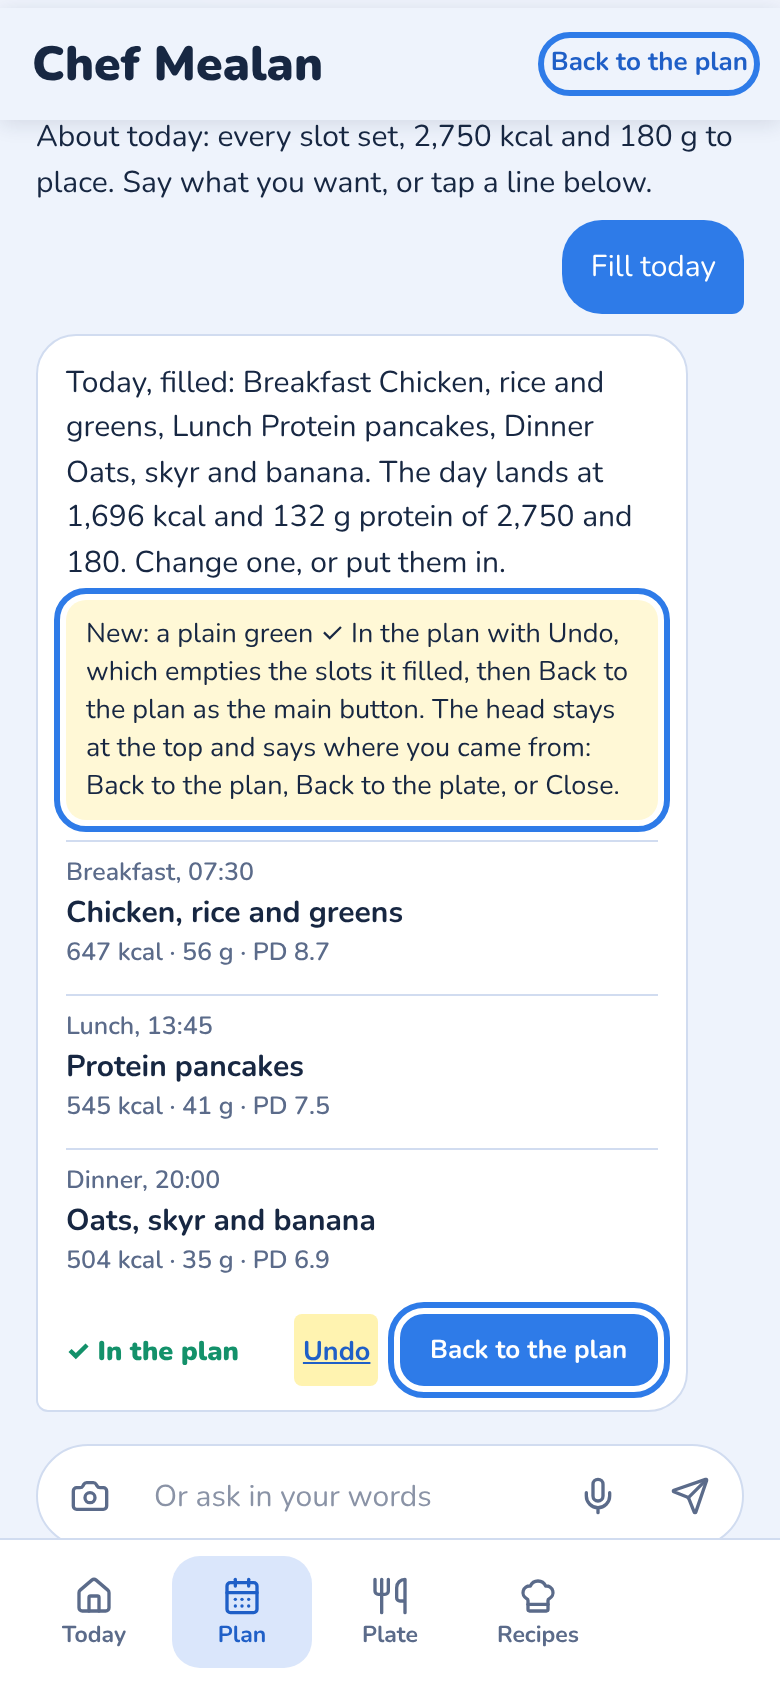
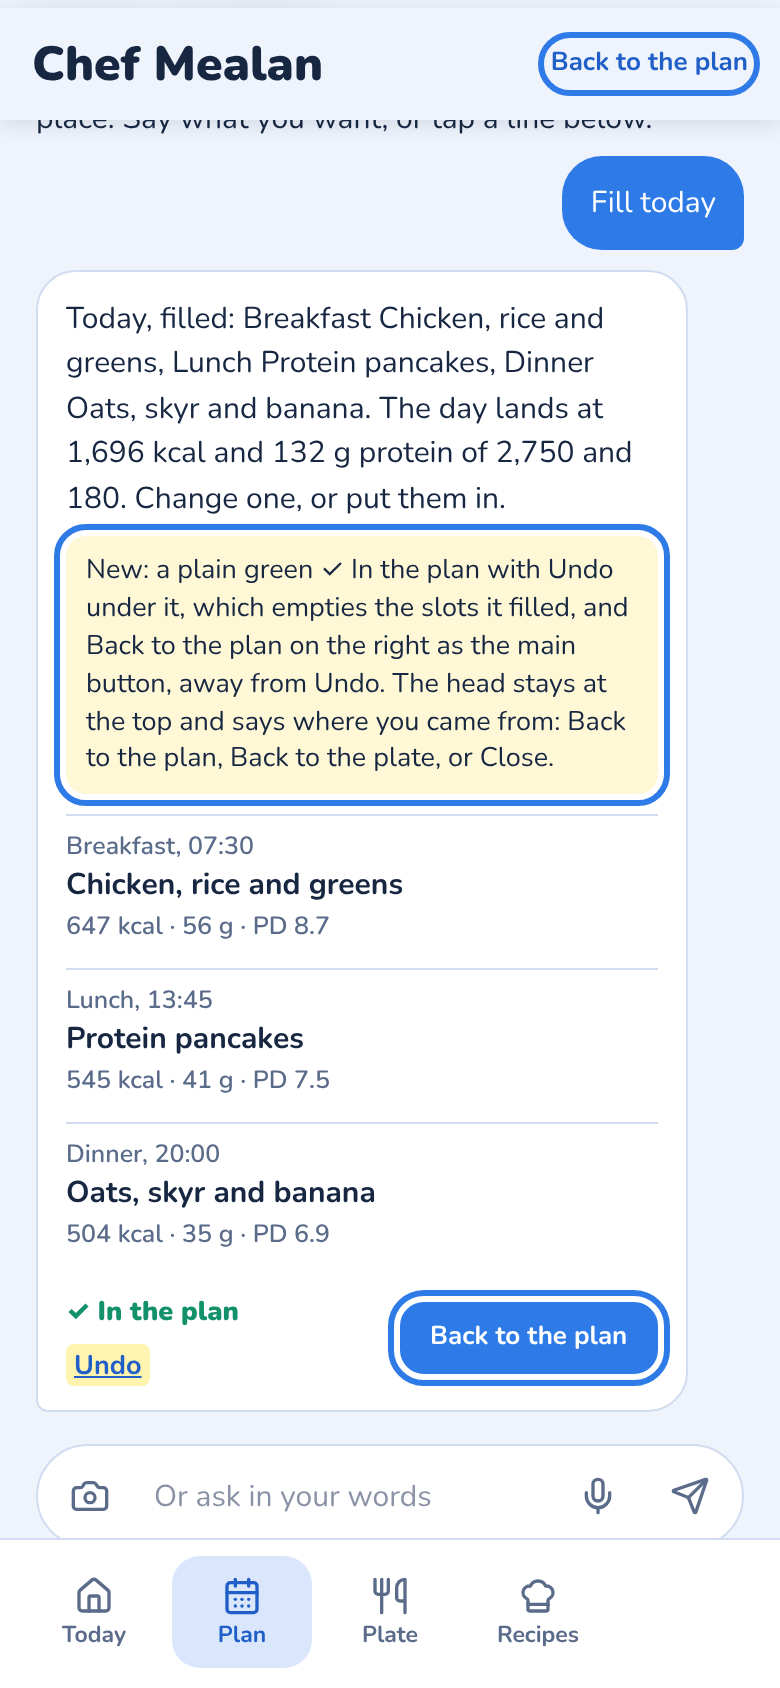
Board DT153 v4: Undo under the tick
Claude-Session: https://claude.ai/code/session_01BtJPGKTfK5KfbXuNDmfhQP

Changed region(s): [[0.0308, 0.0616, 0.9538, 0.8318], [0.0308, 0.1848, 0.0615, 0.2156]]

diff --git a/design/boards/genDT153.py b/design/boards/genDT153.py
@@ -87,19 +87,19 @@ B = Board(); y = 30
 cy = storyCard(B, y, "DT153", "On plate looks like a button: a plain tick with Undo, and the way back always at hand", [
   ("Coach Milan, 29 October 10:22, from Tester 3 Marko's testing", "There was a list of foods to add to the Plate, and that worked. Then the button turned into On plate or similar, with no action. It says the food is on the Plate, but it looks like a button you could tap to go back to the Plate. To close the chat we need to scroll all the way to the top."),
   ("Coach Milan, 10:32, with Tester 3 Marko's screen", "Here. In the plan was actually the message, but not the button."),
-  ("Coach Milan, 10:38 and 10:39", "Should we add Undo for the case it was added by mistake? Yes. Add."),
+  ("Coach Milan, 10:38 to 10:49", "Should we add Undo for the case it was added by mistake? Yes. Add. Is Undo better under, not on the side? Yes."),
   ("Now, checked in 0.2.131", "After + Add the row shows On plate in a pill, the same shape as a button, and it does nothing. Back to the plate sits under the rows in grey, easy to miss. Close is at the top of the chat and scrolls away with it."),
-  ("The story", "After + Add the row shows a plain green ✓ On the plate: text with a tick, no pill, so it doesn't look tappable. The same for Take it out (✓ Out), Swap (✓ Swapped) and Put them in the plan (✓ In the plan). Next to each tick a small Undo link, plain text, not a pill: ✓ On the plate · Undo takes that food off the plate; ✓ Out · Undo puts it back at its old amount; ✓ Swapped · Undo brings back the meal that was there; ✓ In the plan · Undo empties the slots it filled (the fill only uses open slots, so nothing else changes). Undo shows while the chat is open; when you leave and come back, only the tick, because the plate or plan may have changed since. After the first Add, Back to the plate under the rows becomes the main button. The chat's head stays at the top while you scroll: Chef Mealan and where you came from: Back to the plate, Back to the plan, otherwise Close. After Put them in the plan, Back to the plan sits next to the tick as the main button."),
+  ("The story", "After + Add the row shows a plain green ✓ On the plate: text with a tick, no pill, so it doesn't look tappable. The same for Take it out (✓ Out), Swap (✓ Swapped) and Put them in the plan (✓ In the plan). Under each tick a small Undo link, plain text, not a pill, so the row keeps the width of the + Add button and Undo sits away from Back to the plan: ✓ On the plate · Undo takes that food off the plate; ✓ Out · Undo puts it back at its old amount; ✓ Swapped · Undo brings back the meal that was there; ✓ In the plan · Undo empties the slots it filled (the fill only uses open slots, so nothing else changes). Undo shows while the chat is open; when you leave and come back, only the tick, because the plate or plan may have changed since. After the first Add, Back to the plate under the rows becomes the main button. The chat's head stays at the top while you scroll: Chef Mealan and where you came from: Back to the plate, Back to the plan, otherwise Close. After Put them in the plan, Back to the plan sits next to the tick as the main button."),
   ("Checked in the build", "A walkthrough per Undo: the food off and back, the meal swapped back, the filled slots empty again and the day's numbers as before."),
   ("Not in it", "Taking you back to the Plate by itself after an Add: you may want to add two foods. Undo after you left the chat: that is the Plate's and the Plan's own editing."),
 ])
 h = rowEnd(cy,
   B.screen("DT153a", 0, y, "Now: On plate, a dead pill", "r153a", "now", "Close is far up."),
-  B.screen("DT153b", 1, y, "New: a tick, the way back", "r153b", "changed", "✓ On the plate · Undo; Back to the plate primary and in the head."))
+  B.screen("DT153b", 1, y, "New: a tick, the way back", "r153b", "changed", "✓ On the plate, Undo under it; Back to the plate primary and in the head."))
 y = h
 h = rowEnd(y + 10,
   B.screen("DT153c", 0, y, "Now: In the plan, Marko's screen", "r153c", "now", "A message shaped like a button."),
-  B.screen("DT153d", 1, y, "New: ✓ In the plan, Back to the plan", "r153d", "changed", "✓ In the plan · Undo; the head says Back to the plan."))
+  B.screen("DT153d", 1, y, "New: ✓ In the plan, Back to the plan", "r153d", "changed", "✓ In the plan, Undo under it; Back to the plan on the right."))
 y = h
 board("Stories105.dc.html", "DT153. On plate looks like a button",
   "29 October 2026 (Coach Milan, from Tester 3 Marko's testing). Now: 0.2.131, untouched. Drawn for your approval; nothing built.",
